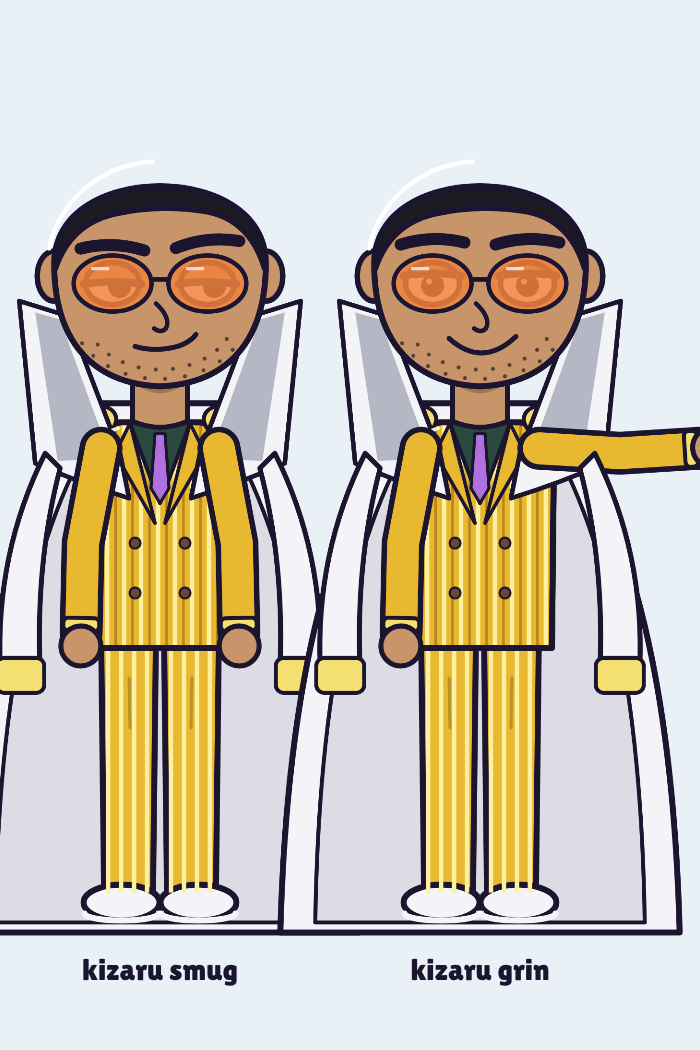
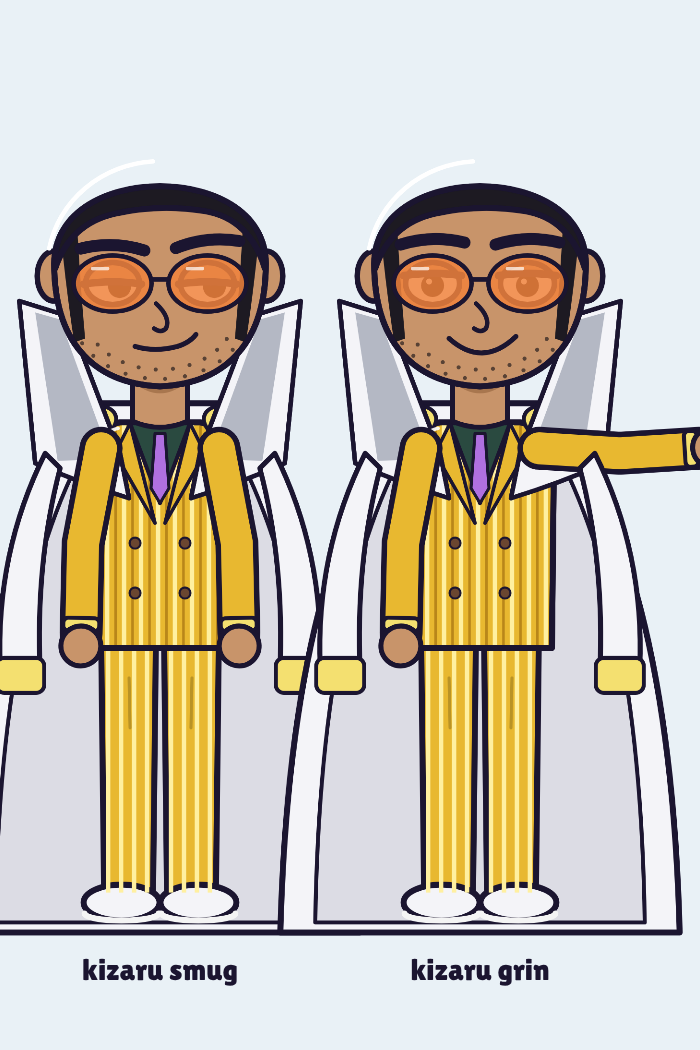
Kizaru: thin sideburns down the face, ears left clear
Claude-Session: https://claude.ai/code/session_01LedSfqc1zbW4UvWfiqXE3c

diff --git a/engine/art.js b/engine/art.js
@@ -153,7 +153,7 @@ export const LOOKS = {
           top: 'bonclay', cloakCol: '#f4a8c8', fur: true, pants: '#e8b88a', shoe: '#f8d8e0', boots: false, arm: '#f4a8c8', cuff: '#ffffff' },
   caesar: { skin: '#e8e0e8', skinD: '#c8bcc8', hair: '#1d1a22', hairL: '#3d3443', hairStyle: 'wild', longWild: true, goatHorns: true, grinWide: true, lips: true,
           top: 'caesar', pants: '#d8b8f0', shoe: '#d8b8f0', boots: false, arm: '#f4f8fc', glove: '#2a2450', cuff: '#f4f8fc' },
-  kizaru: { skin: '#c8946a', skinD: '#a8764e', hair: '#1d1a22', hairL: '#3d3443', hairStyle: 'short', shadesOrange: true, stubble: true, popCollar: true, coatSleeves: true, fit: 1.04,
+  kizaru: { skin: '#c8946a', skinD: '#a8764e', hair: '#1d1a22', hairL: '#3d3443', hairStyle: 'short', thinBurns: true, shadesOrange: true, stubble: true, popCollar: true, coatSleeves: true, fit: 1.04,
           top: 'kizaru', cloakCol: '#f4f4f8', cloakLining: '#dcdce4', pants: '#e8b830', pantsStripes: '#fff0a0', shoe: '#f4f4f8', boots: false, arm: '#e8b830', cuff: '#f4e070', glove: '#c8946a' },
   sabo: { skin: '#f7cc9c', skinD: '#e2ab78', hair: '#f2cf55', hairL: '#ffe58a', hairStyle: 'curly', hat: 'top', scar: true,
           top: 'coat', cloth: '#2f4f8f', clothD: '#223a6c', inner: '#f4f1ea', innerD: '#cfc8b8', cravat: true, pants: '#3a3340', shoe: '#6b4630', boots: true, cuff: '#f4f1ea' },
@@ -490,6 +490,7 @@ export function drawPerson({ who = 'host', expr = 'calm', mouth = 0, blink = fal
     : () => { x.beginPath(); x.moveTo(168, 320); x.bezierCurveTo(168, 115, 592, 115, 592, 320); x.bezierCurveTo(592, 470, 520, 560, 380, 566); x.bezierCurveTo(240, 560, 168, 470, 168, 320); x.closePath(); };
   head(); fs(x, L.skin, 12);
   if (L.sideburns) { x.save(); head(); x.clip(); x.fillStyle = L.hair; for (const sd of [-1, 1]) { x.beginPath(); x.moveTo(380 + sd * 215, 200); x.lineTo(380 + sd * 160, 200); x.quadraticCurveTo(380 + sd * 165, 380, 380 + sd * 150, 520); x.lineTo(380 + sd * 205, 470); x.closePath(); x.fill(); } x.restore(); head(); x.lineWidth = 12; x.strokeStyle = OL; x.stroke(); }
+  if (L.thinBurns) { x.save(); head(); x.clip(); x.fillStyle = L.hair; for (const sd of [-1, 1]) { x.beginPath(); x.moveTo(380 + sd * 205, 200); x.lineTo(380 + sd * 168, 210); x.quadraticCurveTo(380 + sd * 160, 360, 380 + sd * 150, 470); x.lineTo(380 + sd * 172, 478); x.quadraticCurveTo(380 + sd * 190, 360, 380 + sd * 205, 200); x.closePath(); x.fill(); } x.restore(); head(); x.lineWidth = 12; x.strokeStyle = OL; x.stroke(); }
   if (L.wrinkles) { x.strokeStyle = L.skinD; x.lineWidth = 6; x.lineCap = 'round'; for (const sd of [-1, 1]) { x.beginPath(); x.moveTo(380 + sd * 70, 445); x.quadraticCurveTo(380 + sd * 95, 500, 380 + sd * 80, 545); x.stroke(); } x.beginPath(); x.moveTo(320, 235); x.lineTo(440, 235); x.moveTo(335, 255); x.lineTo(425, 255); x.stroke(); }
   if (L.beard) { x.beginPath(); x.moveTo(176, 380); x.bezierCurveTo(190, 520, 280, 600, 380, 604); x.bezierCurveTo(480, 600, 570, 520, 584, 380); x.bezierCurveTo(560, 470, 480, 470, 380, 470); x.bezierCurveTo(280, 470, 200, 470, 176, 380); fs(x, L.hair, 11); }
   // ---- eyes ----
